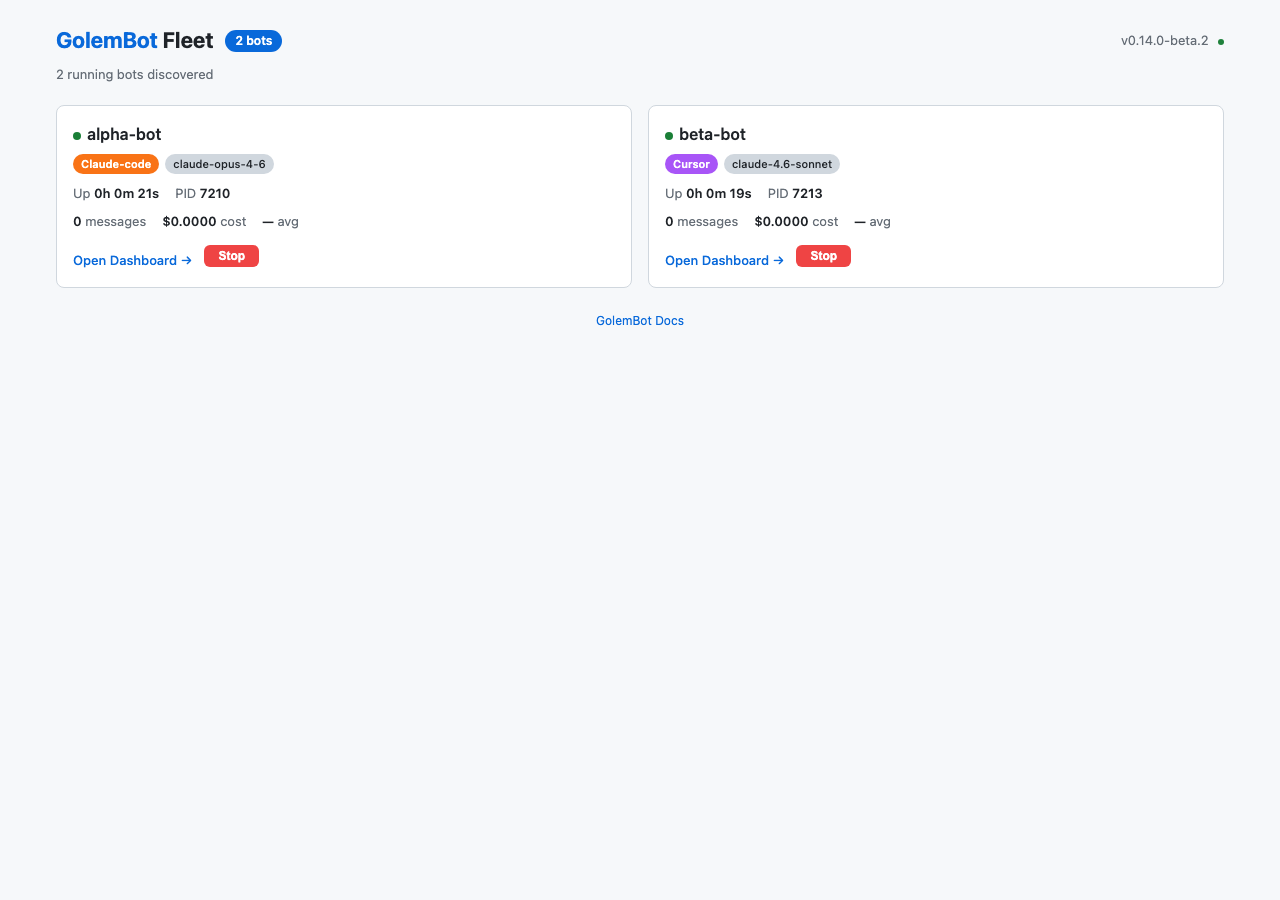
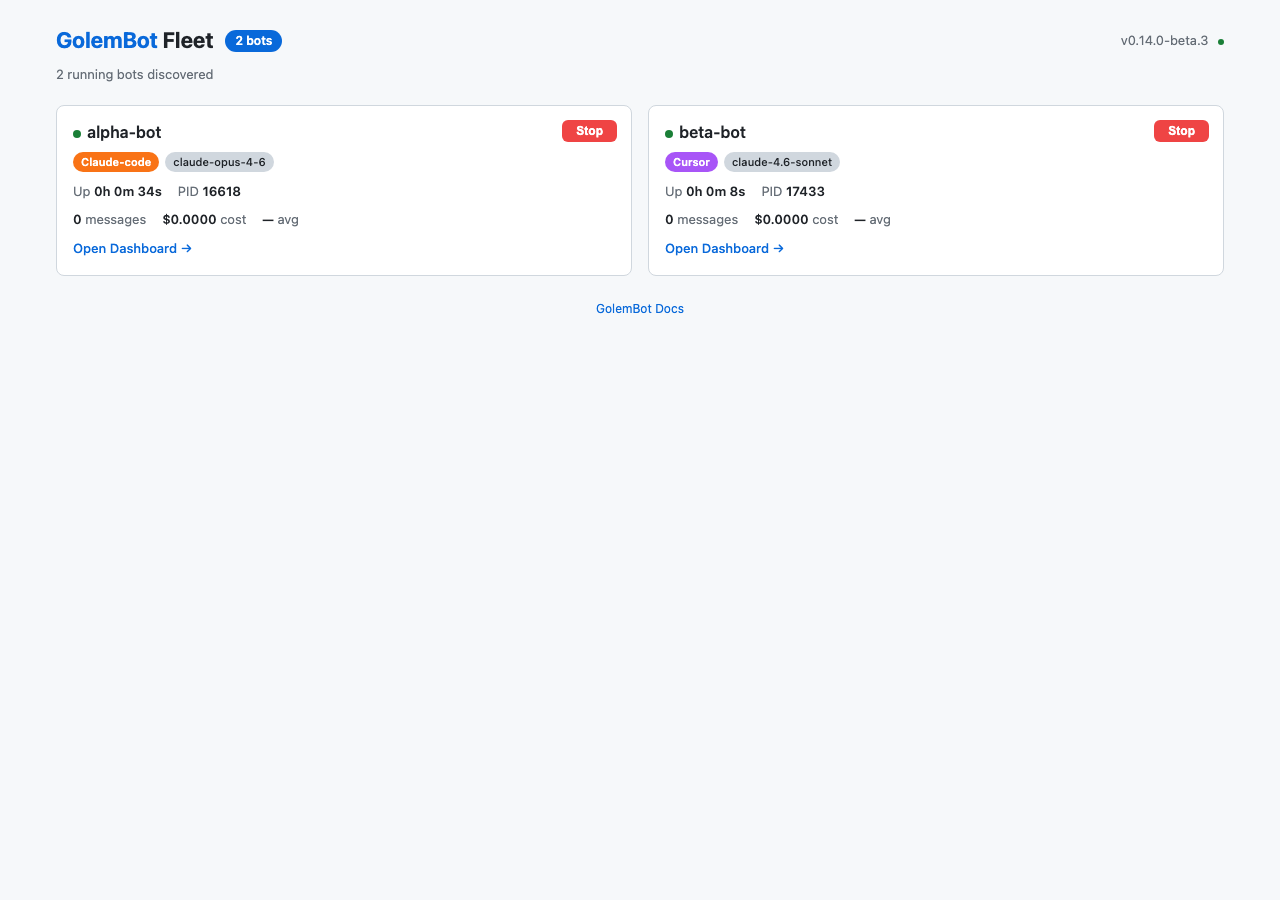
feat: add shutdown button to Gateway Dashboard and fix Fleet card layout
- Gateway Dashboard: add Shutdown button in header (top-right),
  calls POST /shutdown to gracefully stop the gateway
- Gateway server: add POST /shutdown endpoint with onShutdown callback
- Fleet Dashboard: move Stop/Start buttons to card top-right corner
  using absolute positioning for cleaner layout
- Update screenshots to reflect new UI

diff --git a/src/dashboard.ts b/src/dashboard.ts
@@ -151,6 +151,7 @@ function renderHeader(data: DashboardData): string {
   ${modelBadge}
   <span><span class="status-dot"></span>Online</span>
   <span class="meta">v${esc(data.version)} &middot; uptime <span id="uptime">${formatUptime(data.uptime)}</span></span>
+  <button class="shutdown-btn" onclick="shutdownGateway()" title="Shutdown this gateway">Shutdown</button>
 </div>
 <div class="subtitle">${esc(data.name)} &middot; ${connectedCount} channel${connectedCount !== 1 ? 's' : ''} connected &middot; ${data.skills.length} skill${data.skills.length !== 1 ? 's' : ''} loaded &middot; <a href="${DOCS_BASE}/" target="_blank">Documentation</a></div>`;
 }
@@ -434,6 +435,20 @@ function renderClientScript(data: DashboardData): string {
     });
   };
 
+  window.shutdownGateway = function(){
+    if(!confirm('Shutdown this gateway? The bot will stop serving requests.')) return;
+    var btn = document.querySelector('.shutdown-btn');
+    if(btn){btn.disabled=true;btn.textContent='Shutting down...';}
+    var headers = { 'Content-Type': 'application/json' };
+    if(testToken) headers['Authorization'] = 'Bearer ' + testToken;
+    fetch('/shutdown', { method: 'POST', headers: headers }).then(function(res){
+      return res.json();
+    }).then(function(data){
+      if(data.ok) document.body.innerHTML = '<div style="display:flex;align-items:center;justify-content:center;height:100vh;font-family:system-ui;color:#888"><div style="text-align:center"><h2>Gateway Stopped</h2><p>This gateway has been shut down.</p></div></div>';
+      else { alert(data.error || 'Shutdown failed'); if(btn){btn.disabled=false;btn.textContent='Shutdown';} }
+    }).catch(function(e){ alert('Request failed: '+e.message); if(btn){btn.disabled=false;btn.textContent='Shutdown';} });
+  };
+
   window.copyCode = function(btn){
     var pre = btn.parentElement;
     var text = pre.getAttribute('data-copy') || pre.textContent.replace('Copy','').trim();
@@ -497,6 +512,11 @@ pre{background:var(--bg);border:1px solid var(--border);border-radius:6px;paddin
 .token-input{display:flex;gap:8px;margin-bottom:12px;align-items:center}
 .token-input input{flex:1;background:var(--bg);border:1px solid var(--border);border-radius:4px;padding:4px 8px;color:var(--text);font-size:12px;font-family:monospace}
 .token-input button{background:var(--accent);color:#fff;border:none;border-radius:4px;padding:4px 12px;font-size:12px;cursor:pointer}
+
+/* Shutdown button */
+.shutdown-btn{background:#ef4444;color:#fff;border:none;padding:4px 14px;border-radius:6px;font-size:12px;font-weight:600;cursor:pointer;margin-left:auto;transition:opacity .15s}
+.shutdown-btn:hover{opacity:.85}
+.shutdown-btn:disabled{opacity:.5;cursor:not-allowed}
 
 /* Responsive (dashboard-specific) */
 @media(max-width:768px){

diff --git a/src/fleet.ts b/src/fleet.ts
@@ -273,7 +273,7 @@ export async function findStoppedInstance(
 const FLEET_CSS = `${BASE_CSS}
 
 /* Fleet-specific styles */
-.bot-card{position:relative;transition:border-color .2s}
+.bot-card{position:relative;transition:border-color .2s;padding-top:14px}
 .bot-card:hover{border-color:var(--accent)}
 .bot-name{font-size:16px;font-weight:600;margin-bottom:8px}
 .bot-meta{display:flex;flex-wrap:wrap;gap:6px;margin-bottom:10px}
@@ -295,9 +295,9 @@ const FLEET_CSS = `${BASE_CSS}
 .auth-badge{display:inline-block;padding:2px 8px;border-radius:10px;font-size:11px;background:var(--border);color:var(--dim)}
 .card-actions{display:flex;align-items:center;gap:12px;margin-top:10px}
 .btn-stop,.btn-start{border:none;padding:4px 14px;border-radius:6px;font-size:12px;font-weight:600;cursor:pointer;transition:opacity .15s}
-.btn-stop{background:#ef4444;color:#fff}
+.btn-stop{background:#ef4444;color:#fff;position:absolute;top:14px;right:14px}
 .btn-stop:hover{opacity:.85}
-.btn-start{background:var(--green);color:#fff}
+.btn-start{background:var(--green);color:#fff;position:absolute;top:14px;right:14px}
 .btn-start:hover{opacity:.85}
 .btn-stop:disabled,.btn-start:disabled{opacity:.5;cursor:not-allowed}
 .stopped-card{opacity:.65;border-style:dashed}
@@ -385,10 +385,8 @@ function renderBotCard(inst: FleetInstance): string {
       </div>
       ${statsHtml}
       ${channelsHtml}
-      <div class="card-actions">
-        <a class="open-link" href="${esc(inst.url)}" target="_blank">Open Dashboard &rarr;</a>
-        <button class="btn-stop" onclick="fleetAction('stop','${esc(inst.name)}',${new URL(inst.url).port || 3000})">Stop</button>
-      </div>
+      <a class="open-link" href="${esc(inst.url)}" target="_blank">Open Dashboard &rarr;</a>
+      <button class="btn-stop" onclick="fleetAction('stop','${esc(inst.name)}',${new URL(inst.url).port || 3000})">Stop</button>
     </div>`;
 }
 
@@ -408,9 +406,7 @@ function renderStoppedCard(entry: FleetEntry & { stopped: true }): string {
         <span class="stat-item">Port <strong>${esc(port)}</strong></span>
         <span class="stat-item" style="color:var(--dim)">${esc(entry.dir)}</span>
       </div>
-      <div class="card-actions">
-        <button class="btn-start" onclick="fleetAction('start','${esc(entry.name)}',${port})">Start</button>
-      </div>
+      <button class="btn-start" onclick="fleetAction('start','${esc(entry.name)}',${port})">Start</button>
     </div>`;
 }
 

diff --git a/src/server.ts b/src/server.ts
@@ -7,6 +7,7 @@ export interface ServerOpts {
   port?: number;
   token?: string;
   hostname?: string;
+  onShutdown?: () => Promise<void> | void;
 }
 
 /** http.Server extended with a forceClose() method for clean shutdown. */
@@ -176,6 +177,18 @@ export function createGolemServer(assistant: Assistant, opts: ServerOpts = {}, d
         dashboard.metrics.eventSubscribers.delete(res);
         activeConnections.delete(res);
       });
+      return;
+    }
+
+    // POST /shutdown — graceful gateway shutdown
+    if (path === '/shutdown' && req.method === 'POST') {
+      if (opts.onShutdown) {
+        json(res, 200, { ok: true });
+        // Delay shutdown slightly so the response is sent first
+        setTimeout(() => { opts.onShutdown!(); }, 200);
+      } else {
+        json(res, 404, { error: 'Shutdown not available' });
+      }
       return;
     }
 

diff --git a/src/gateway.ts b/src/gateway.ts
@@ -550,7 +550,9 @@ export async function startGateway(opts: GatewayOpts): Promise<void> {
     version,
   };
 
-  const serverOpts: ServerOpts = { port, token, hostname: host };
+  // shutdown is assigned later after httpServer is created — use a wrapper
+  let shutdownFn: (() => Promise<void>) | undefined;
+  const serverOpts: ServerOpts = { port, token, hostname: host, onShutdown: () => shutdownFn?.() };
   const httpServer: GolemServer = createGolemServer(assistant, serverOpts, dashboardCtx);
 
   const adapters: ChannelAdapter[] = [];
@@ -629,6 +631,7 @@ export async function startGateway(opts: GatewayOpts): Promise<void> {
     await unregisterInstance(config.name, port).catch(() => {});
     process.exit(0);
   };
+  shutdownFn = shutdown;
 
   process.on('SIGINT', shutdown);
   process.on('SIGTERM', shutdown);
